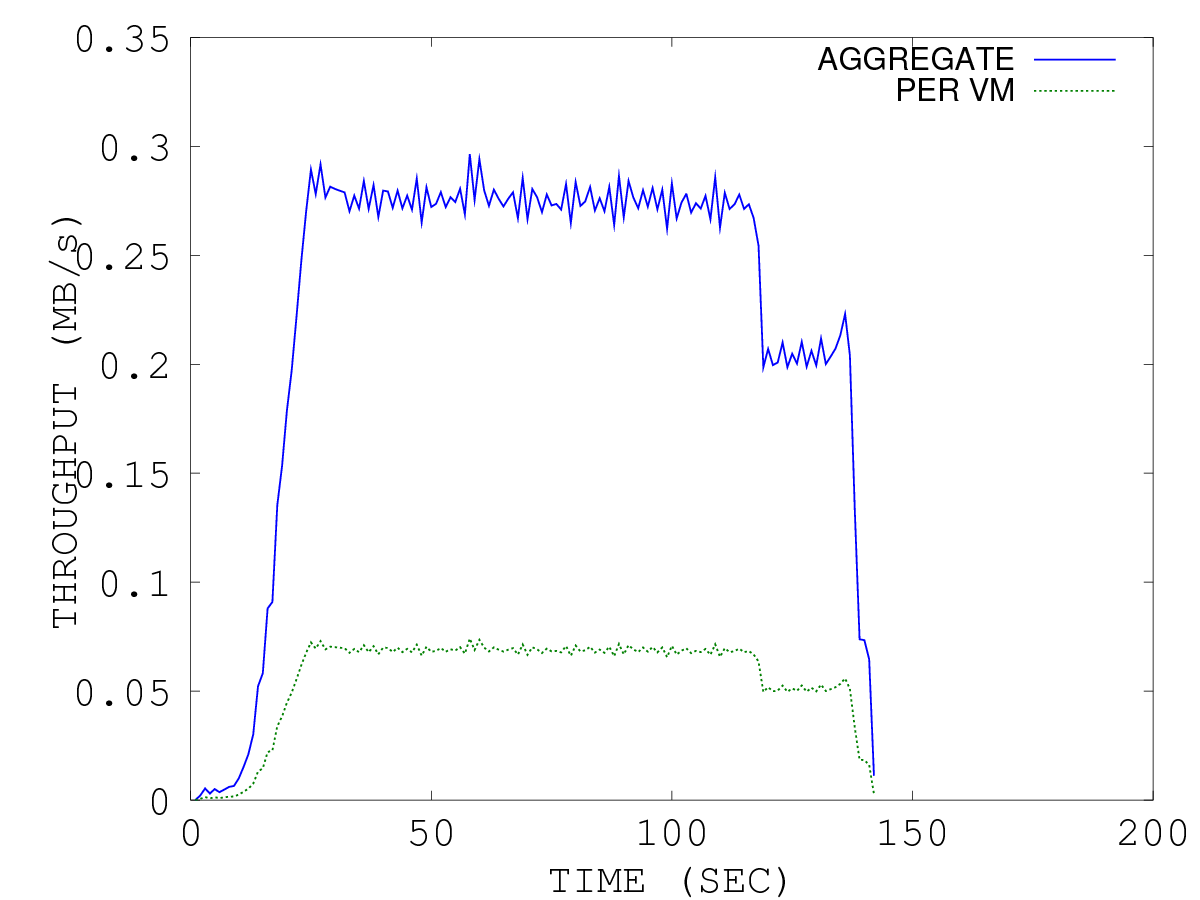
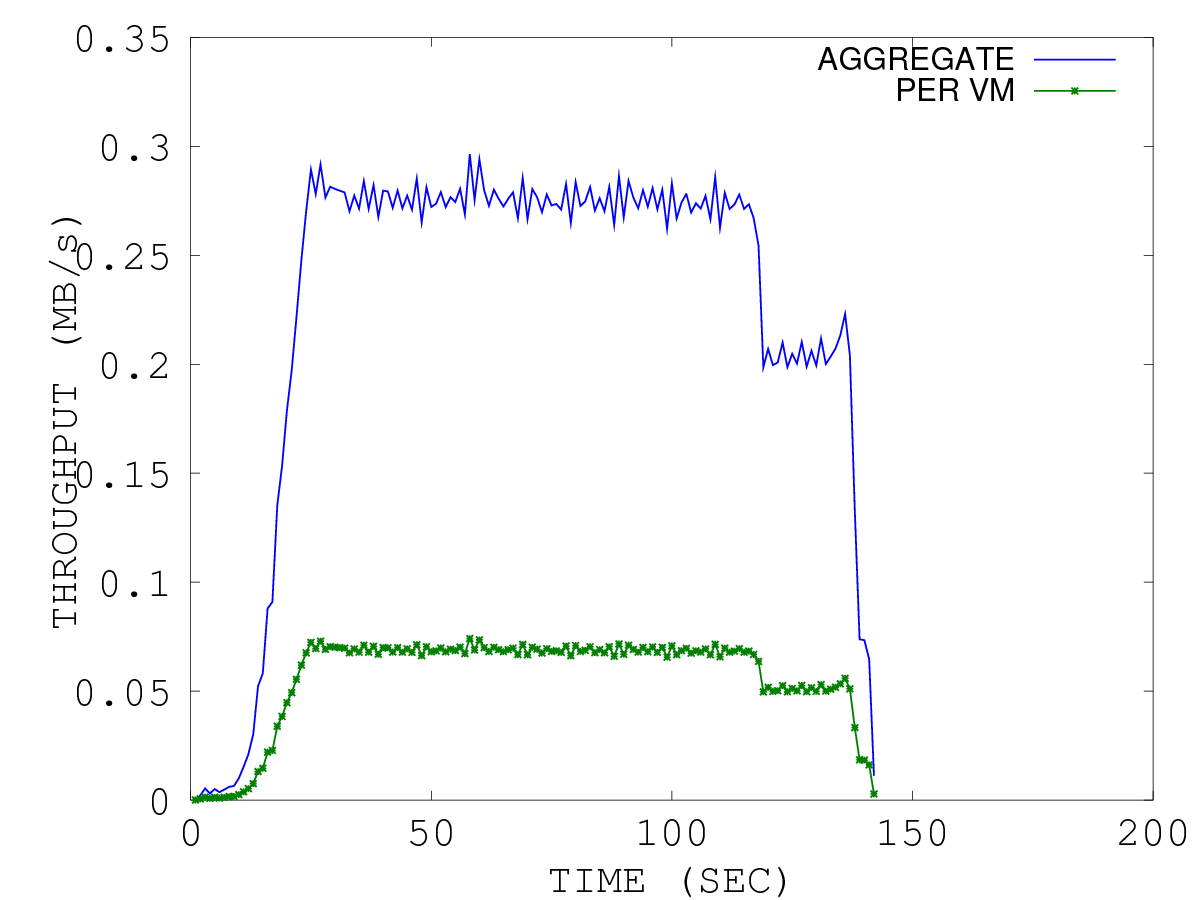
all

diff --git a/plot/plotnet.m b/plot/plotnet.m
@@ -16,6 +16,7 @@ sendcol = 9;
 fontsize = 20; % too close distance between axis and axis labels
 
 linewidth = 3;
+markersize = 3;
 
 %prefix = "rand-6-r2"
 data = strcat(prefix, postfix)
@@ -31,7 +32,7 @@ A = csvread(prefix, startrow, recvcol);
 figure;
 output = data
 x = 1:1:length(A);
-pl = plot(x, A(:,1)/1000000, x, A(:,2)/1000000, '-*', 'LineWidth', linewidth, 'MarkerSize', 4);
+pl = plot(x, A(:,1)/1000000, x, A(:,2)/1000000, '-*', 'LineWidth', linewidth, 'MarkerSize', markersize);
 %pl = plot(x, A(:,1)/1000000, x, A(:,2)/1000000, '-*-', 'LineWidth', linewidth);
 %plot(x, A(:,1)/1000000, x, A(:,2)/1000000, '--rs');
 %plot(x, A(:,1)/1000000, x, A(:,2)/1000000, '-.*');
@@ -53,7 +54,7 @@ saveas (1, strcat(output, ".emf"));
 figure;
 output = strcat(prefix, ".recv");
 x = 1:1:length(A);
-pl = plot(x, A(:,1)/1000000, x, A(:,1)/(1000000*N), ':', 'LineWidth', linewidth);
+pl = plot(x, A(:,1)/1000000, x, A(:,1)/(1000000*N), '-*', 'LineWidth', linewidth, 'MarkerSize', markersize);
 %plot(x, A(:,1)/1000000, x, A(:,1)/(1000000*N), ':');
 xlabel('TIME (SEC)');
 ylabel('THROUGHPUT (MB/s)');
@@ -78,7 +79,7 @@ saveas (1, strcat(output, ".emf"));
 figure;
 output = strcat(prefix, ".send");
 x = 1:1:length(A);
-pl = plot(x, A(:,2)/1000000, x, 'LineWidth', linewidth, A(:,2)/(1000000*N), '-.*', 'LineWidth', linewidth, 'MarkerSize', 3);
+pl = plot(x, A(:,2)/1000000, x, 'LineWidth', linewidth, A(:,2)/(1000000*N), '-*', 'LineWidth', linewidth, 'MarkerSize', markersize);
 %pl = plot(x, A(:,2)/1000000, x, 'LineWidth', linewidth, A(:,2)/(1000000*N), '---.', 'LineWidth', linewidth);
 %pl = plot(x, A(:,2)/1000000, x, 'LineWidth', linewidth, A(:,2)/(1000000*N), '--..', 'LineWidth', linewidth);
 %plot(x, A(:,2)/1000000);
